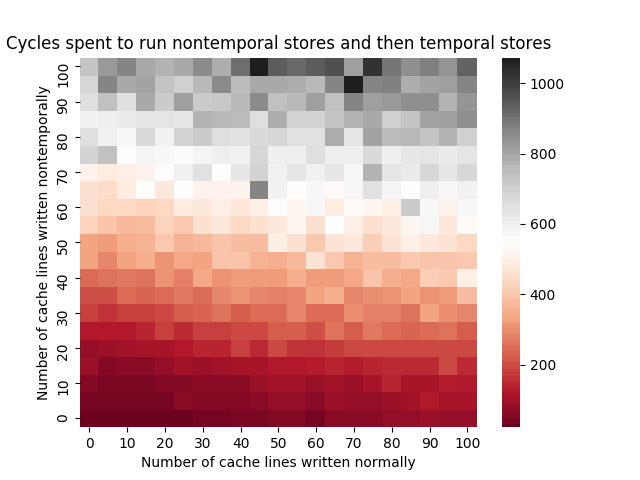
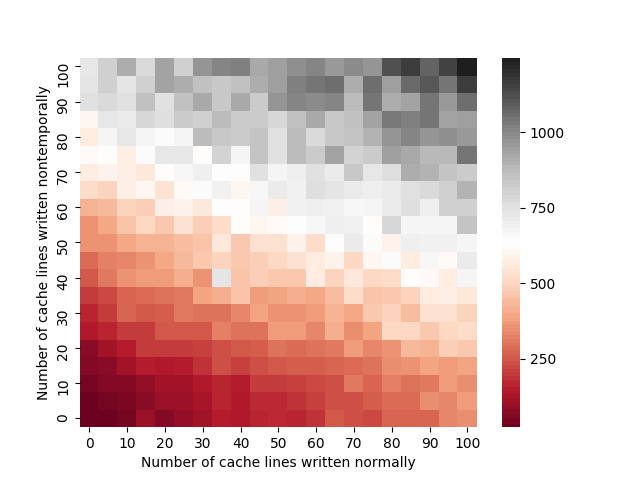
Draft V1

diff --git a/_posts/2018-08-26-nontemporal.md b/_posts/2018-08-26-nontemporal.md
@@ -1,14 +1,12 @@
 ---
 layout: post
-title: Nontemporal Memory Access, part 1
+title: Optimizing Cache Usage with Nontemporal Memory Access, part 1
 subtitle: Nontemporal stores
 toc: true
 ---
 
 Have you ever looked at code reading/writing to a large or infrequently used datastructure and thought "What a waste of the cache?".
 Look no further than nontemporal memory operations for all your cache-bypassing needs.
-
-Still in progress, but will still contain interesting code and charts while I'm battling my nemesis web-dev trying to make this pretty
 
 ### Nontemporal memory access in intel-x86
 Modern x86 chips <sup><a href="#fnsse" id="ref_sse">1</a></sup> contain load and store operations which completely bypass the cache, usually described as nontemporal
@@ -115,19 +113,114 @@ We can run a test trying each combination of NT_LINES and LINES from 0 to 100, i
 
 The results of that don't point to a single cliff or pointing performance gun, but confirm some rather expected results:
 
-  * For data in the cache, we can basically store at full rate - the store buffer can clear faster than we can submit
-  * Nontemporal stores have some performance penalty when executing many. In this test, we must write the whole line nontemporally which worsens throughput problems
+  * The costs scale about linearly with the number of stores in either dimension, and there's no performance wall or major stall
+  * Nontemporal stores have some slight throughput penalty over normal store operations, albeit for rather limited store sequences
 
 Importantly, there doesn't seem to be any cost difference to subsequent stores after a series of nontemporal stores is executed. Contrast this with the case where
-we omit an sfence (more on this later, but enforces store ordering) between the nontemporal and temporal stores:
-![normal_sfence]({{ "/img/nontemporal_sfence_d1.png" }})
+we emit an sfence (more on this later, but enforces store ordering) between the nontemporal and temporal stores:
+<a id="fence">![normal_sfence]({{ "/img/nontemporal_sfence_d1.png" }})</a>
 
-This won't be relevant except when writing multicore code, but this is a great example of blocking the store buffer. Since stores can't leave the buffer until
-the nontemporal stores complete, they simply just stall.
+This won't be relevant except when writing multicore code, but this is a great example of what happens when nontemporal stores block normal stores.
+Eventually, normal stores can't issue any more since the store buffer fills up and the processor just stalls.
 
 #### Write-combining buffers
 
-TODO, tl;dr is that you better write 64 bytes at once nontemporally
+Write combining buffers exist on the cpu to help coalesce stores into a single operation. On normal stores, this allows reads-for-ownership to by coalesced
+on consecutive stores to the cache line, but otherwise is not fundamental to performance. For nontemporal stores, they play a much more fundamental role.
+
+The memory bus will only transact in 8 or 64 byte blocks, so store blocks that don't write an entire cache line will themselves get split into many
+bus transactions. One should must ensure that whenever writing data nontemporally, the whole cache line is written to in a block. We can run some benchmarks
+on what sort of leeway one has when defining 'in a block', but first let's see how bad it is for performance to run many.
+
+For this benchmark, we'll be running this code in the inner loop:
+
+``` c
+void force_nt_store(cache_line *a) {
+    __m128i zeros = {0, 0}; // chosen to use zeroing idiom;
+    // do 4 stores to hit whole cache line
+    __asm volatile("movntdq %0, (%1)\n\t"
+#if BYTES > 16
+                   "movntdq %0, 16(%1)\n\t"
+#endif
+#if BYTES > 32
+                   "movntdq %0, 32(%1)\n\t"
+#endif
+#if BYTES > 48
+                   "movntdq %0, 48(%1)"
+#endif
+                   :
+                   : "x" (zeros), "r" (&a->vec_val)
+                   : "memory");
+}
+ 
+uint64_t run_timer_loop(void) {
+
+    mfence();
+    uint64_t start = rdtscp();
+
+    for (int i = 0; i < 32; i++) {
+        force_nt_store(&large_buffer[i]);
+    }
+
+    mfence();
+
+    uint64_t end = rdtscp();
+}
+```
+
+We initiate a series of nontemporal stores (possibly to partial cache lines), and then issue a strong fence to time how long they take to complete.
+As expected, writing partial cache lines seriously hurts performance:
+
+![write_combine]({{ "/img/write_combine.png" }})
+
+### What can we do with this?
+
+Since we'll need a special kernel module for performing proper nontemporal reads, there's not a whole lot that we can do with this.
+Nontemporal stores could be useful for writing to low-priority threads on a different socket, but ordering via fences and <a href="#fence">the performance implications</a>
+of them are tricky enough to deserve their own article. For the sake of this article, I'll write a fairly contrived example but the juicy applications don't come until we've got nontemporal
+loads and multicore ordering sorted out.
+
+Consider this situation: One has some function which receives a long message containing a user ID, looks up that user in some datastructure,
+and forwards the result on to some different processing pipeline.
+Furthermore, one must keep the last 200MB of received messages in a buffer to dump upon failure. We'll benchmark this scenario and see how using nontemporal stores can greatly reduce the cache pressure of this buffer and keep the lookup datastructure in cache. The basic outline of our test code will be:
+
+``` c++
+struct message {
+    uint64_t id;
+    char data[1024*8 - sizeof(uint64_t)];
+};
+
+std::map<uint64_t, uint64_t> lookup_map;
+std::vector<message> message_buffer;
+size_t message_buffer_ind;
+
+void process_message(const message &m) {
+
+    message &cpy_to = message_buffer[message_buffer_ind];
+    message_buffer_ind++;
+    if (message_buffer_ind == message_buffer.size()) {
+        message_buffer_ind = 0;
+    }
+
+#ifdef NONTEMPORAL_COPY   
+    nontemporal_cpy_message(m, cpy_to);
+#else
+    cpy_message(m, cpy_to);
+#endif
+
+   process_message_farther(m, lookup_map[m.id]);
+}
+```
+
+We'll adjust the number of ids in the map (and in the message) and see how each performs. The results are:
+![example]({{ "/img/example.png" }})
+
+Exactly as we hoped. The nontemporal operations reduce cache pressure in the pointer-chasing tree lookup and we see a performance improvement.
+Hopefully, this was enough to demonstrate that nontemporal operations can truly have a use in high performance applications, and we'll see how
+much more one can use them for when we can load past the cache as well.
+
+
+
 
 <sup id="fnsse">1. Nontemporal stores were introduced in SSE, and loads in SSE 4.1<a href="#ref_sse" title="Jump back to footnote 1 in the text.">↩</a></sup> 
 
